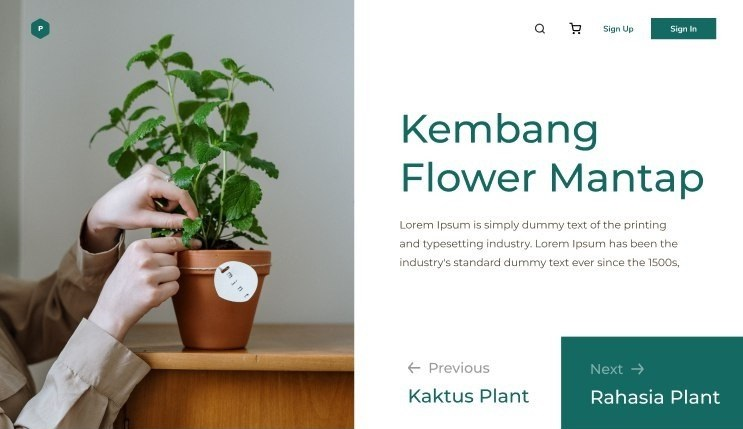
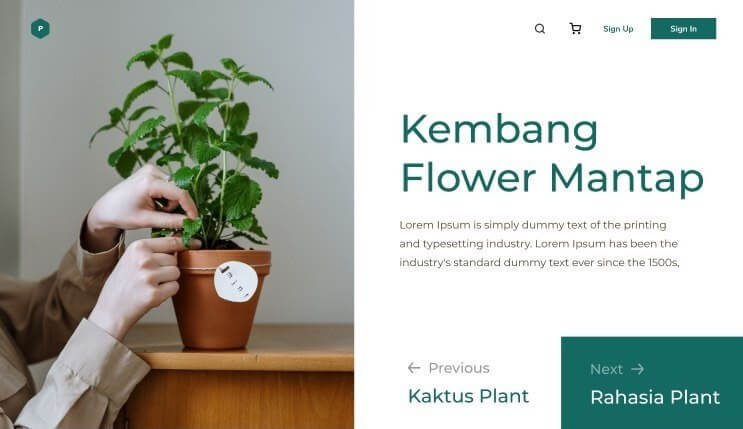
perf: convert images to webp format
- Convert large photos to webp for better performance
- Reduce overall asset size

diff --git a/src/styles/components/_featured_plants.css b/src/styles/components/_featured_plants.css
@@ -73,13 +73,13 @@
 }
 
 .kaktus-plant {
-  background-image: url('../../images/kaktus-plant.png');
+  background-image: url('../../images/kaktus-plant.webp');
   background-size: 330px;
   background-position: 50% 65%;
 }
 
 .landark-plant {
-  background-image: url('../../images/landark-plant.png');
+  background-image: url('../../images/landark-plant.webp');
   background-size: 216px;
   background-position: 50% 0%;
 }
@@ -91,13 +91,13 @@
 }
 
 .kecubung-plant2 {
-  background-image: url('../../images/kecubung-plant2.png');
+  background-image: url('../../images/kecubung-plant2.webp');
   background-size: 250px;
   background-position: 50% -300%;
 }
 
 .kecubung-plant3 {
-  background-image: url('../../images/kecubung-plant3.png');
+  background-image: url('../../images/kecubung-plant3.webp');
   background-size: 350px;
   background-position: 50% -200%;
 }

diff --git a/src/styles/components/_get_plants.css b/src/styles/components/_get_plants.css
@@ -4,7 +4,7 @@
   max-width: 92.65625%;
   min-height: 360px;
   background-color: #f3f4f6;
-  background-image: url('../../images/plant-in-a-hand.jpg');
+  background-image: url('../../images/plant-in-a-hand.webp');
   background-size: 400px;
   background-position: 95% 70%;
   background-repeat: no-repeat;

diff --git a/src/styles/components/_buy_plants.css b/src/styles/components/_buy_plants.css
@@ -37,7 +37,7 @@
 .wall-of-plants-img {
   width: 513px;
   min-height: 610px;
-  background-image: url('../../images/wall-of-plants.jpg');
+  background-image: url('../../images/wall-of-plants.webp');
   background-size: cover;
   background-position: 0 100%;
   background-repeat: no-repeat;

diff --git a/src/styles/layout/_header.css b/src/styles/layout/_header.css
@@ -59,7 +59,7 @@ header {
 }
 
 .plant-img {
-  background-image: url('../../images/plant-in-a-vase.jpg');
+  background-image: url('../../images/plant-in-a-vase.webp');
   width: 47.5%;
   height: 740px;
   background-size: cover;
